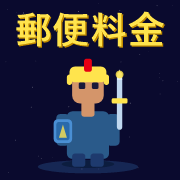
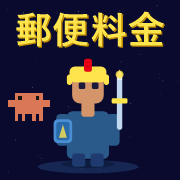
メニュー左上に動くClaude Codeキャラクターを追加し、アイコンにも追加

Changed region(s): [[0.0278, 0.5, 0.2778, 0.6944]]

diff --git a/index.html b/index.html
@@ -196,6 +196,21 @@ body { font-family: -apple-system, BlinkMacSystemFont, "Helvetica Neue", Arial, 
 }
 .dq-press-btn:active { background:#2a4d8e; }
 
+/* === Claude Code のキャラクター（メニュー左上） === */
+.cc-mascot {
+  position: absolute; top: 10px; left: 20px; z-index: 2;
+  display: flex; flex-direction: column; align-items: center; gap: 3px;
+  text-decoration: none;
+}
+.cc-mascot svg { width: 36px; height: 27px; shape-rendering: crispEdges; overflow: visible; transform-origin: center; }
+.cc-mascot .cc-label {
+  font-family: -apple-system, "Segoe UI", sans-serif; font-size: 7px; letter-spacing: 0.05em;
+  color: #d97757; opacity: 0.8; white-space: nowrap;
+}
+.cc-body { fill: #d97757; }
+.cc-eye { fill: #1a1612; transform-box: fill-box; transform-origin: center; animation: cc-blink 4s infinite; }
+@keyframes cc-blink { 0%, 92%, 100% { transform: scaleY(1); } 95% { transform: scaleY(0.1); } }
+
 /* ===== 1: ゆうパック ===== */
 .yuupack-inner { max-width:480px; margin:auto; background:white; padding:12px 16px; border-radius:8px; box-shadow:0 4px 12px rgba(0,0,0,0.15); margin-top:10px; margin-bottom:10px; }
 .yuupack-inner h2 { color:#004098; margin-top:0; margin-bottom:8px; font-size:20px; border-bottom:2px solid #004098; padding-bottom:6px; text-align:center; }
@@ -373,6 +388,22 @@ body { font-family: -apple-system, BlinkMacSystemFont, "Helvetica Neue", Arial, 
 <div class="pg" id="page-menu">
   <div id="menu-section">
     <div class="dq-stars" id="dq-stars"></div>
+    <a class="cc-mascot" href="https://claude.com/claude-code" target="_blank" rel="noopener" title="Claude Code で作成" aria-label="Claude Code で作成">
+      <svg viewBox="0 -1 12 9" aria-hidden="true">
+        <rect class="cc-body cc-leg" x="2" y="6" width="1" height="2"/>
+        <rect class="cc-body cc-leg" x="4" y="6" width="1" height="2"/>
+        <rect class="cc-body cc-leg" x="7" y="6" width="1" height="2"/>
+        <rect class="cc-body cc-leg" x="9" y="6" width="1" height="2"/>
+        <g class="cc-hop">
+          <rect class="cc-body" x="2" y="0" width="8" height="6"/>
+          <rect class="cc-body cc-arm-l" x="0" y="2" width="2" height="2"/>
+          <rect class="cc-body cc-arm-r" x="10" y="2" width="2" height="2"/>
+          <rect class="cc-eye" x="3" y="1" width="1" height="1"/>
+          <rect class="cc-eye" x="8" y="1" width="1" height="1"/>
+        </g>
+      </svg>
+      <span class="cc-label">Claude Code</span>
+    </a>
     <div class="dq-title">★ ゆうびん りょうきん ★</div>
     <div class="dq-subtitle">— POSTAL CALCULATOR —</div>
     <div class="dq-window">
@@ -1080,6 +1111,46 @@ function hSearch(){
   }
   opScreen.addEventListener('click', startGame);
   opScreen.addEventListener('touchend', startGame);
+})();
+
+// ===== Claude Code のキャラクター（メニュー左上）=====
+//   右へ歩く → 端で立ち止まって手足をちょこちょこ動かし、振り向く → 左へ戻る … を繰り返す
+(function ccMascot() {
+  const svg = document.querySelector(".cc-mascot svg");
+  if (!svg) return;
+  const body = svg.querySelector(".cc-hop");
+  const armL = svg.querySelector(".cc-arm-l");
+  const armR = svg.querySelector(".cc-arm-r");
+  const legs = Array.from(svg.querySelectorAll(".cc-leg"));
+  const HALF = 12, STEP = 2, TICK = 220, IDLE_TICKS = 9;
+  let x = -HALF, dir = 1, mode = "idle", t = 0;
+  const legUp = (i, up) => legs[i].setAttribute("height", up ? 1 : 2);
+  const armUp = (el, up) => el.setAttribute("y", up ? 1 : 2);
+  const bob = up => body.setAttribute("transform", up ? "translate(0,-1)" : "");
+  const rest = () => { legs.forEach((_, i) => legUp(i, false)); armUp(armL, false); armUp(armR, false); bob(false); };
+  const draw = () => { svg.style.transform = `translateX(${x}px) scaleX(${dir})`; };
+  function tick() {
+    t++;
+    if (mode === "walk") {
+      const ph = t % 2;
+      armUp(armL, false); armUp(armR, false);
+      legUp(0, ph === 0); legUp(2, ph === 0);
+      legUp(1, ph === 1); legUp(3, ph === 1);
+      bob(ph === 0);
+      x += STEP * dir;
+      if (x <= -HALF || x >= HALF) { x = Math.max(-HALF, Math.min(HALF, x)); mode = "idle"; t = 0; rest(); }
+    } else {
+      const ph = t % 4;
+      armUp(armL, ph === 1); armUp(armR, ph === 3);
+      legUp(0, ph === 2); legUp(3, ph === 0);
+      bob(false);
+      if (t === Math.floor(IDLE_TICKS / 2)) dir = (x >= HALF) ? -1 : 1;
+      if (t >= IDLE_TICKS) { mode = "walk"; t = 0; rest(); }
+    }
+    draw();
+  }
+  draw();
+  setInterval(tick, TICK);
 })();
 
 document.body.addEventListener('touchstart',()=>getAC(),{once:true});
